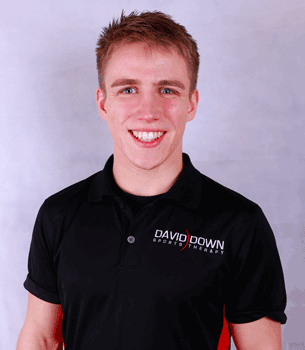
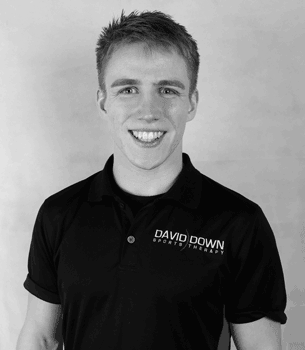
grayscaling img

diff --git a/AngularModel/angular/views/about.html b/AngularModel/angular/views/about.html
@@ -14,7 +14,7 @@
         <h1 class="centered">A LITTLE ABOUT DAVID</h1>
         <hr>
         <div class="col-md-offset-1 col-md-10">
-            <img class="img-responsive" src="../../template/img/Headshot-sm.png" alt="Photo of David">
+            <img class="img-responsive" src="../../template/img/Headshot.png" alt="Photo of David">
         </div><!-- col -->
         <div class="col-md-6 text-muted">
             <p>
